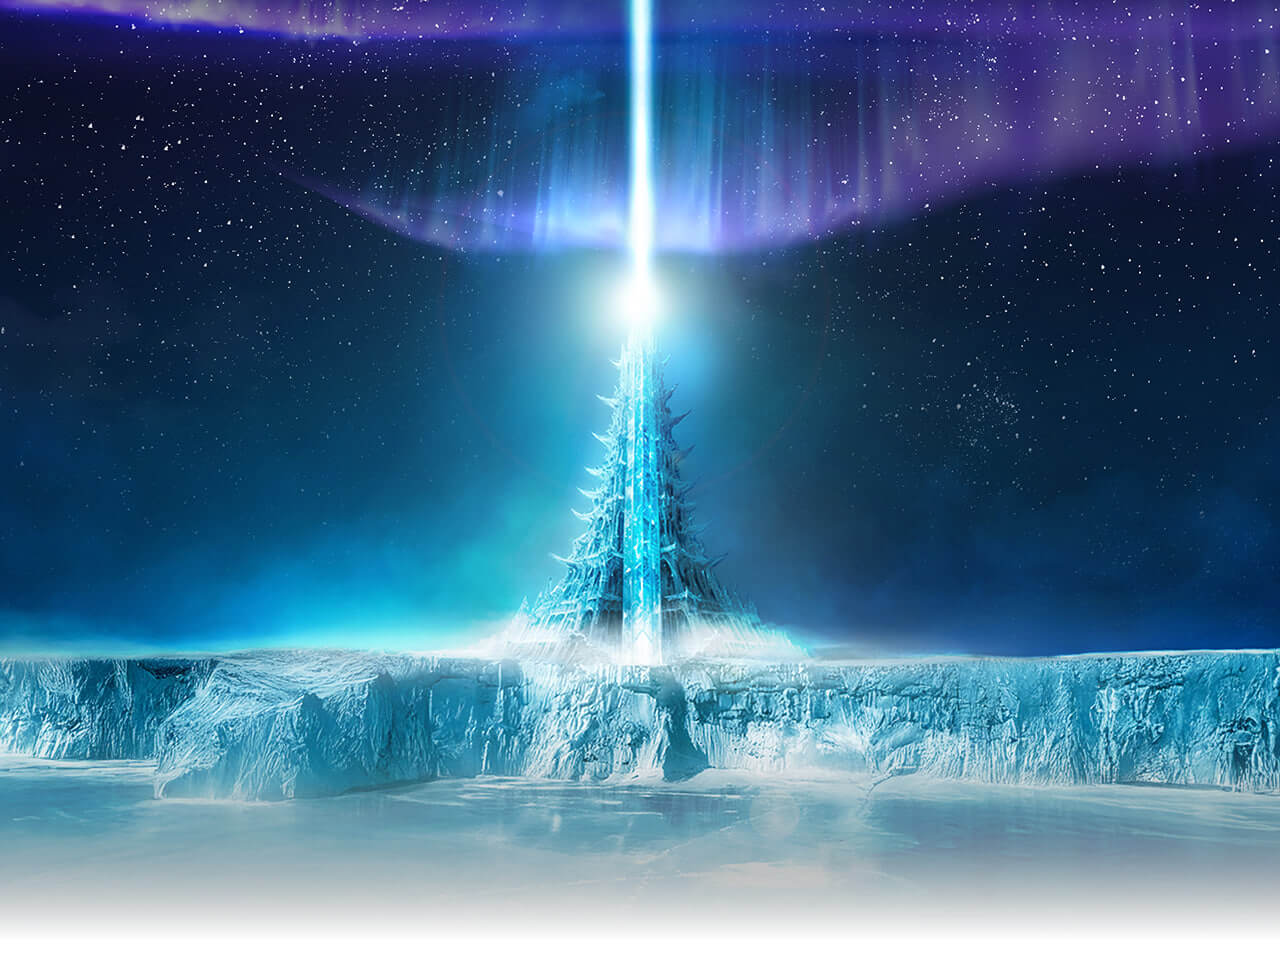
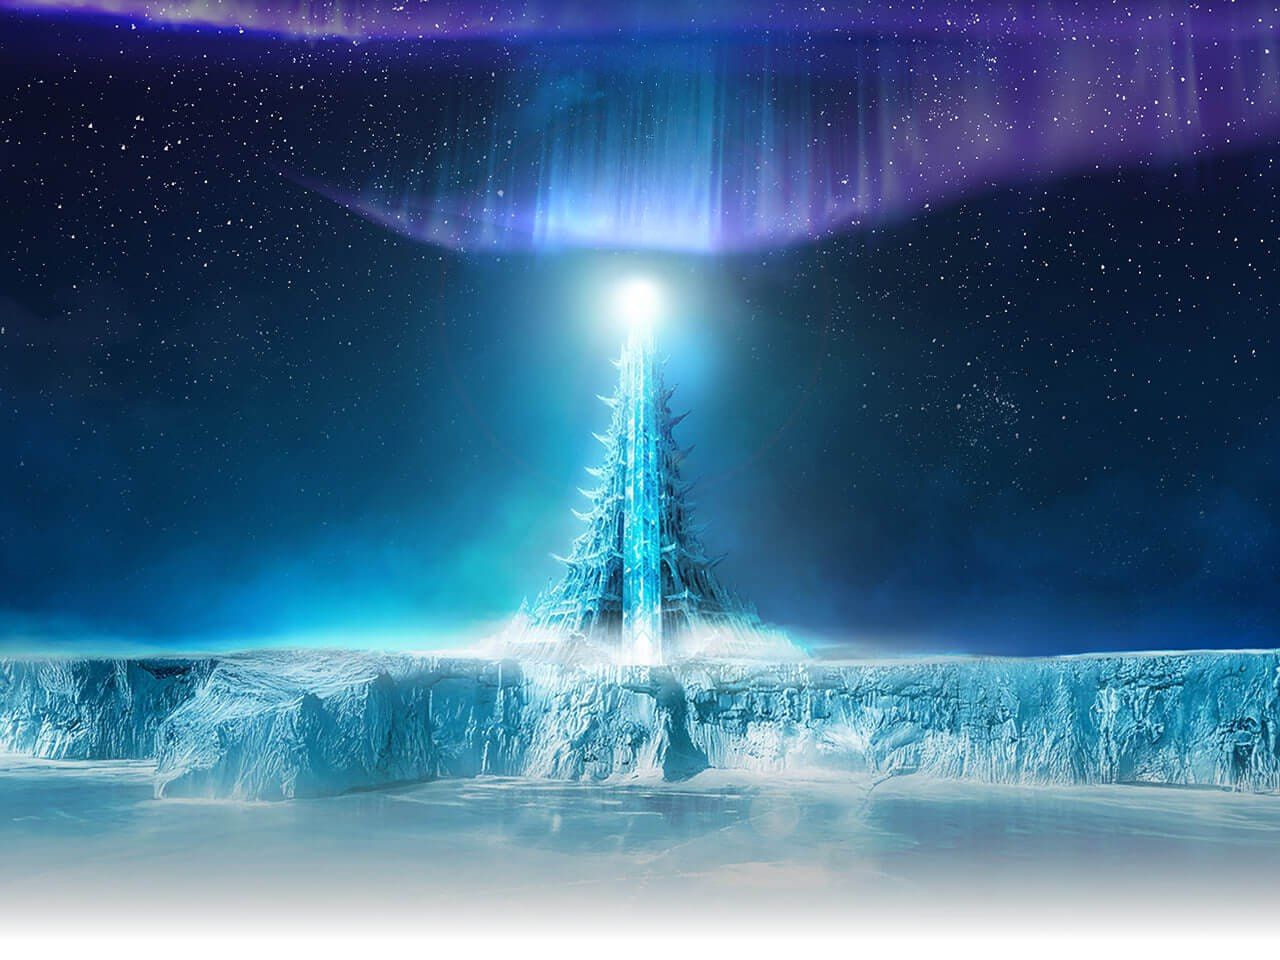
feat: add ror on/off image

Changed region(s): [[0.4688, 0.0, 0.5312, 0.3125], [0.4688, 0.5625, 0.5, 0.5938]]

diff --git a/src/app/common/Intro/RoRIntro.jsx b/src/app/common/Intro/RoRIntro.jsx
@@ -1,29 +1,41 @@
-import React from "react";
+import React, { useState } from "react";
 import { useNavigate } from "react-router-dom";
 import assets from "../../../assets/assets.json";
 
 const RoRIntro = () => {
   const navigate = useNavigate();
+  const [showGlow, setShowGlow] = useState(false);
 
   return (
-    <div
-      className="w-[200vw]"
-      style={{
-        background: `url(${assets.uxui.rorspash}) no-repeat center / cover`,
-        height: `calc(100svh - var(--tg-safe-area-inset-top) - 45px)`,
-      }}
-    >
+    <div className="w-[200vw] relative h-[calc(100svh-var(--tg-safe-area-inset-top)-45px)]">
+      {/* img 1 */}
       <div
-        className={`flex  flex-col h-full items-center justify-center z-[100]`}
-      >
-        <div className="absolute flex flex-col justify-between items-center h-full pt-[3vh] pb-[3vh]">
+        className="absolute inset-0 w-full h-full z-0"
+        style={{
+          background: `url(${assets.uxui.rorspash}) no-repeat center / cover`,
+        }}
+      ></div>
+
+      {/* img 2 */}
+      {showGlow && (
+        <div
+          className="absolute inset-0 w-full h-full z-10"
+          style={{
+            background: `url(/assets/1280px-ror.on.png) no-repeat center / cover`,
+          }}
+        ></div>
+      )}
+
+      {/* content */}
+      <div className="absolute inset-0 flex flex-col items-center justify-center z-20">
+        <div className="flex flex-col justify-between items-center h-full pt-[3vh] pb-[3vh]">
           <img
             src="/assets/ror.logo.silver1.svg"
             alt="dod"
             className="purple-text-shadow w-[180px]"
           />
           <div className="flex flex-col gap-[2vh]">
-            <div className={`flex justify-center items-center z-[100]`}>
+            <div className="flex justify-center items-center">
               <img
                 src={assets.logos.begodsWhite}
                 alt="logo"
@@ -32,10 +44,7 @@ const RoRIntro = () => {
             </div>
             <div
               onClick={() => {
-                handleFadeout();
-                setTimeout(() => {
-                  navigate("/ror");
-                }, 2000);
+                setShowGlow(true);
               }}
               className="relative inline-block"
             >

diff --git a/src/app/common/Intro/FoFIntro.jsx b/src/app/common/Intro/FoFIntro.jsx
@@ -22,8 +22,12 @@ const FoFIntro = ({ handleFadeout, fadeout }) => {
             alt="dod"
             className="fof-text-shadow w-[180px]"
           />
-          <div className={`flex  ${fadeout && "fade-out"}  flex-col gap-[2vh]`}>
-            <div className={`flex justify-center items-center z-[100]`}>
+          <div className={`flex flex-col gap-[2vh]`}>
+            <div
+              className={`flex ${
+                fadeout && "fade-out"
+              }   justify-center items-center z-[100]`}
+            >
               <img
                 src={assets.logos.begodsBlack}
                 alt="logo"

diff --git a/src/components/Loaders/FoFLoader.jsx b/src/components/Loaders/FoFLoader.jsx
@@ -27,8 +27,8 @@ const FoFLoader = (props) => {
             alt="dod"
             className="fof-text-shadow w-[180px]"
           />
-          <div className="flex flex-col fade-in w-full">
-            <div className="flex justify-center items-center w-full -mb-[1.85vh]">
+          <div className="flex flex-col w-full">
+            <div className="flex justify-center fade-in items-center w-full -mb-[1.85vh]">
               <LoadRoll />
             </div>
             <div className="relative inline-block mx-auto">
